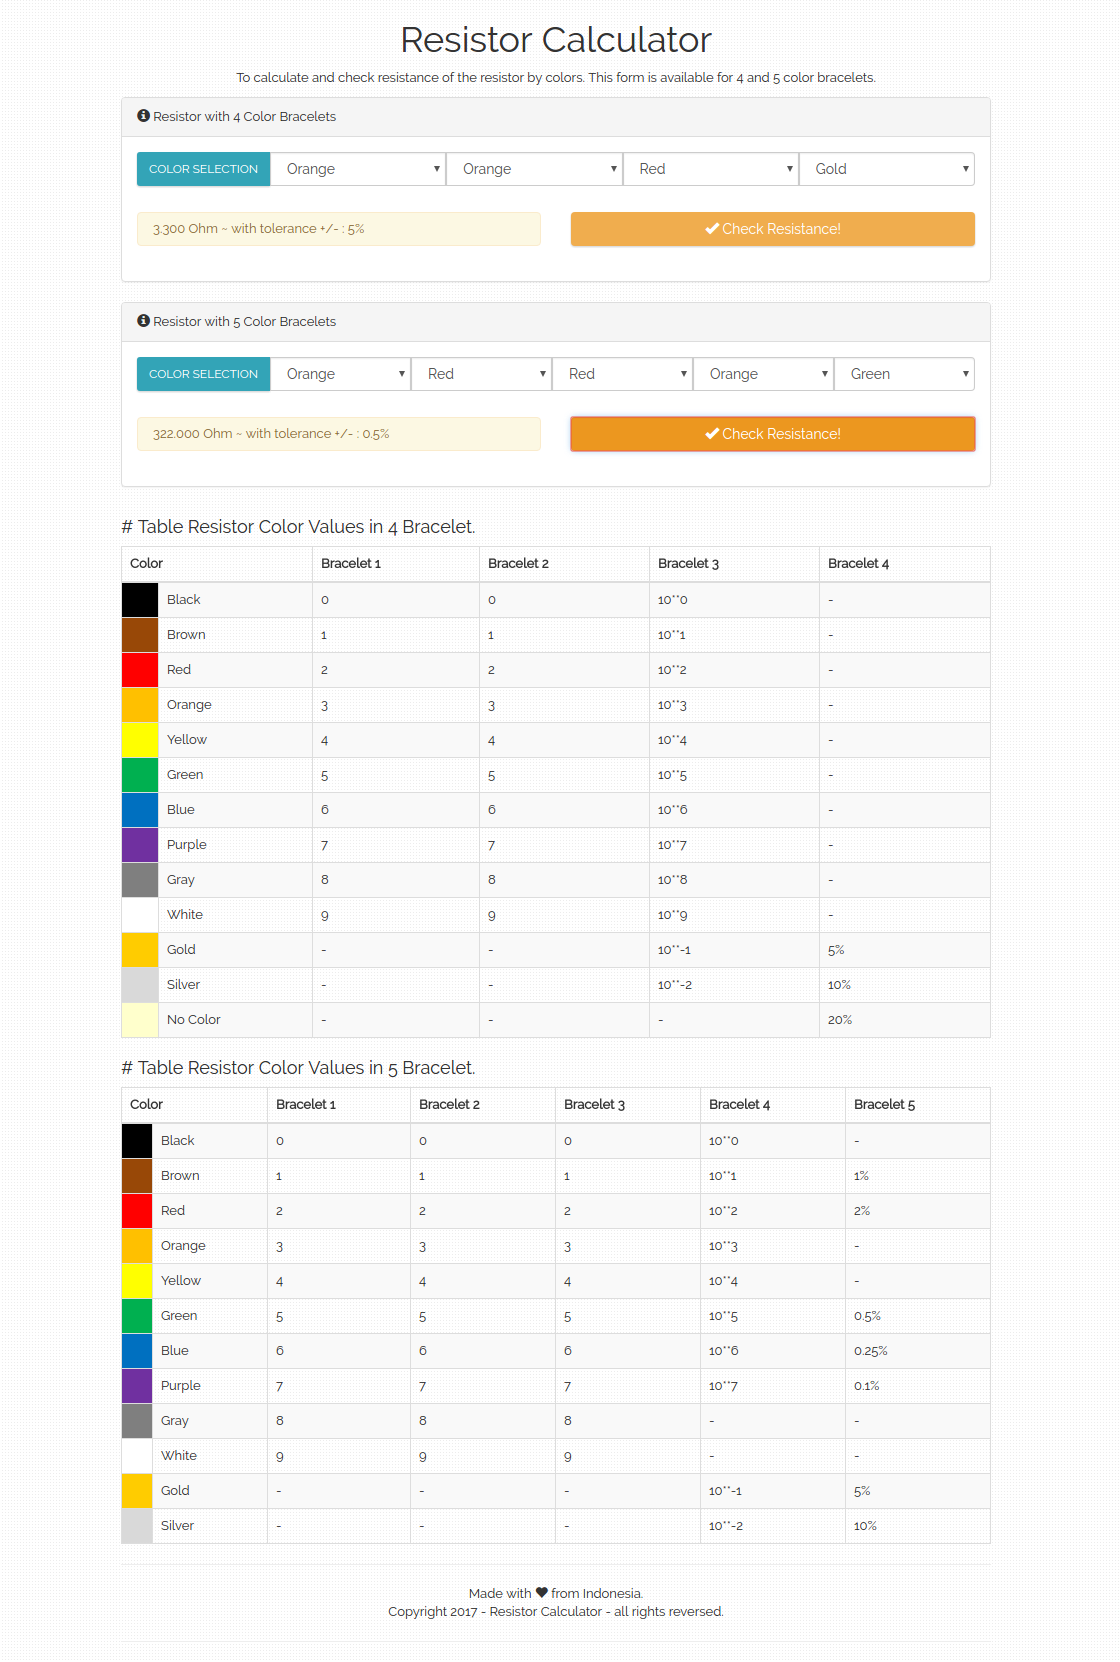
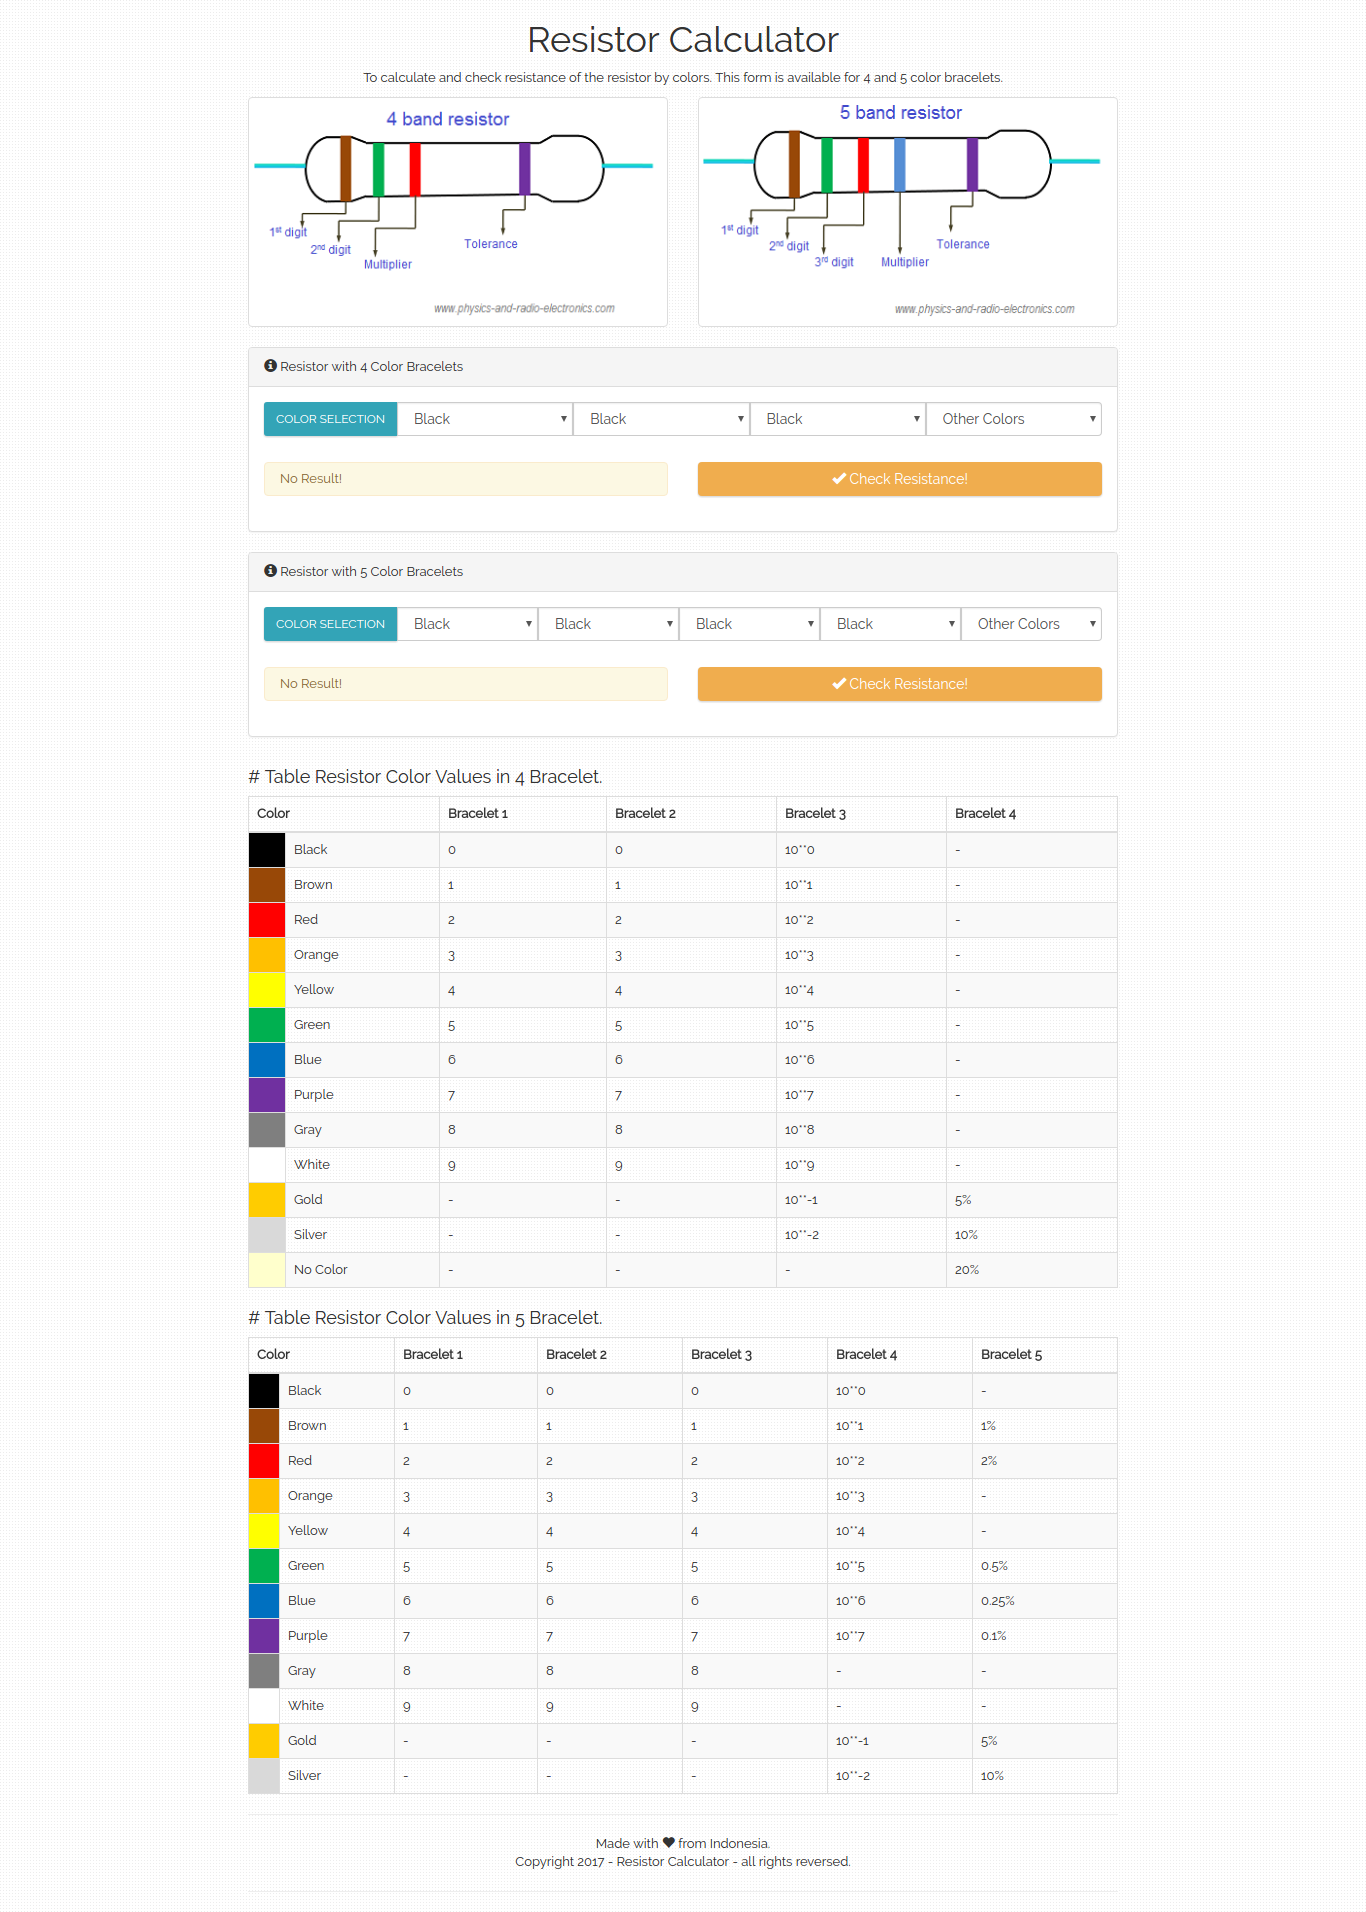
update img

diff --git a/resistor/engine/templates/resistor-form.html b/resistor/engine/templates/resistor-form.html
@@ -18,6 +18,7 @@
     .cs-max-4 {max-width: 25%}
     .cs-max-5 {max-width: 20%}
     .results {padding: 7px 15px}
+    .img-band {height: 230px;width: 100%}
     .no-radius {border-radius: 0!important}
     .container {max-width: 900px}
   </style>
@@ -26,6 +27,16 @@
   <div class="container">
     <h1 class="text-center">Resistor Calculator</h1>
     <p class="text-center">To calculate and check resistance of the resistor by colors. This form is available for 4 and 5 color bracelets.</p>
+
+    <div class="row">
+      <div class="col-md-6">
+        <img class="thumbnail img-band" src="https://raw.githubusercontent.com/agusmakmun/resistor-calculator/master/__ext/resistorfourband.png">
+      </div>
+      <div class="col-md-6">
+        <img class="thumbnail img-band" src="https://raw.githubusercontent.com/agusmakmun/resistor-calculator/master/__ext/resistorfiveband.png">
+      </div>
+    </div>
+
     <div class="panel panel-default">
       <div class="panel-heading">
         <i class="glyphicon glyphicon-info-sign"></i> Resistor with 4 Color Bracelets
